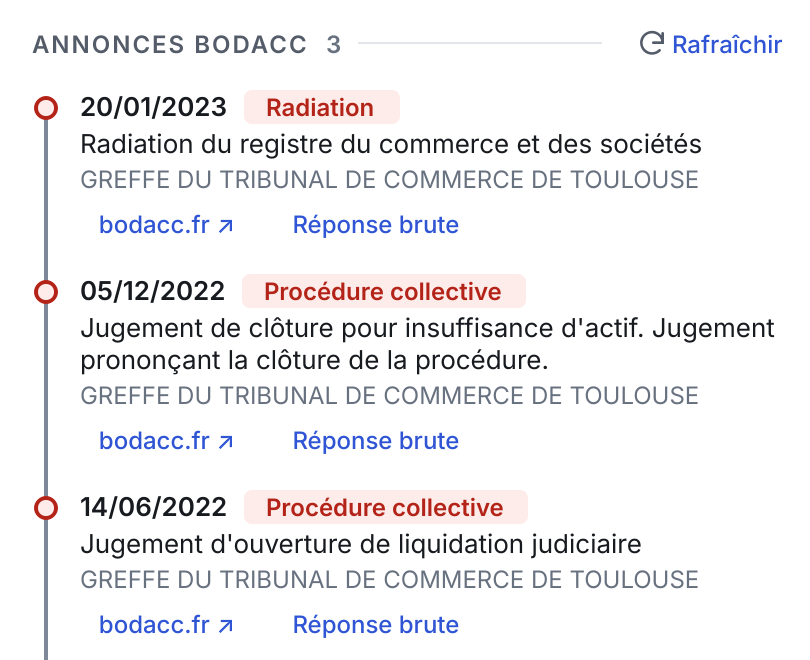
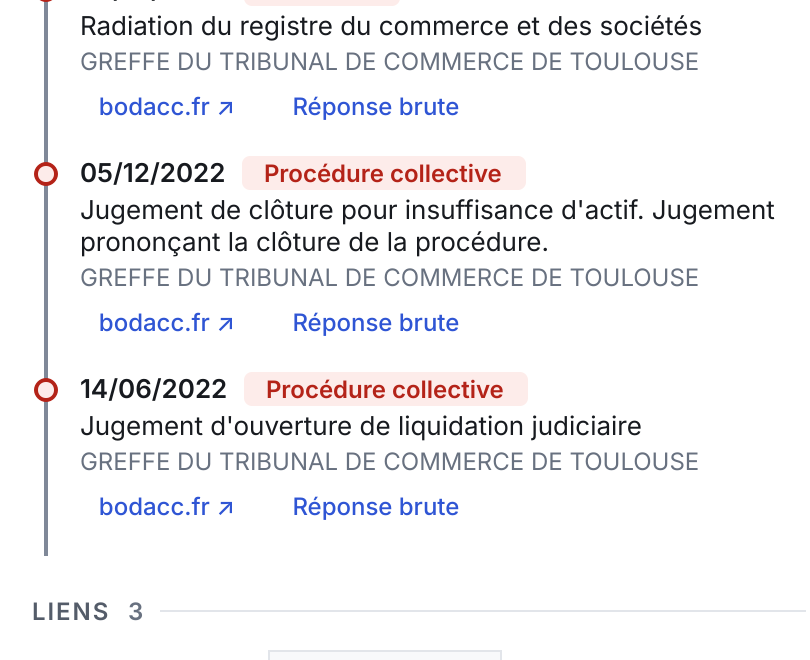
docs(219): Explain the provenance of a link

Changed region(s): [[0.0309, 0.0, 0.9877, 1.0]]

diff --git a/scripts/take_screenshots.py b/scripts/take_screenshots.py
@@ -222,6 +222,12 @@ def scroll_to_the_notices(window: MainWindow) -> None:
     settle(window)
 
 
+def scroll_to_the_end(window: MainWindow) -> None:
+    scroll_bar = window.investigation_page.details_panel.entity_sheet.verticalScrollBar()
+    scroll_bar.setValue(scroll_bar.maximum())
+    settle(window)
+
+
 def show_the_foreign_company(window: MainWindow) -> None:
     show_the_entity(window, FOREIGN_COMPANY)
 
@@ -247,8 +253,8 @@ SCENES = (
     Scene("graph", keep_the_view, area=QRect(321, 138, 698, 762)),
     Scene("warning-signal", keep_the_view, area=QRect(1020, 172, 405, 388)),
     Scene("bodacc-notices", scroll_to_the_notices, area=QRect(1020, 256, 405, 330)),
-    Scene("provenance", keep_the_view, area=QRect(1020, 600, 405, 300)),
-    Scene("foreign-entity", show_the_foreign_company, area=QRect(1020, 176, 420, 300)),
+    Scene("provenance", scroll_to_the_end, area=QRect(1020, 520, 405, 380)),
+    Scene("foreign-entity", show_the_foreign_company, area=QRect(1020, 176, 420, 340)),
     Scene("collection-log", open_the_collection_log, area=QRect(1020, 138, 410, 250)),
     Scene("keyboard-shortcuts", open_the_shortcuts, subject=shortcuts_dialog),
 )

diff --git a/CHANGELOG.md b/CHANGELOG.md
@@ -6,6 +6,7 @@ All notable changes to Lacis are listed here, newest first. The format follows [
 
 ### Added
 
+- Each link in the details of an entity has a « Provenance » button, which shows the responses the link comes from, with their date, their SHA-256 fingerprint and their raw response. A « Même personne » link shows the decision of the investigator and its date.
 - The details of a person list the homonym decisions that concern them, with their date, and the « Retirer » button withdraws one at any time, even after the investigation was closed. The proposal comes back to the review queue, and the signals are computed again.
 - A website, https://c4seus.github.io/lacis/, that presents Lacis and holds its user guide, in French. The AppStream metadata, the packages and the notes of each release link to it. The website counts its visits with GoatCounter, without cookies, and its privacy page says what is counted.
 - The details of a company show how many of its directors the register withholds, such as « 1 dirigeant non diffusible », without any detail about them.
